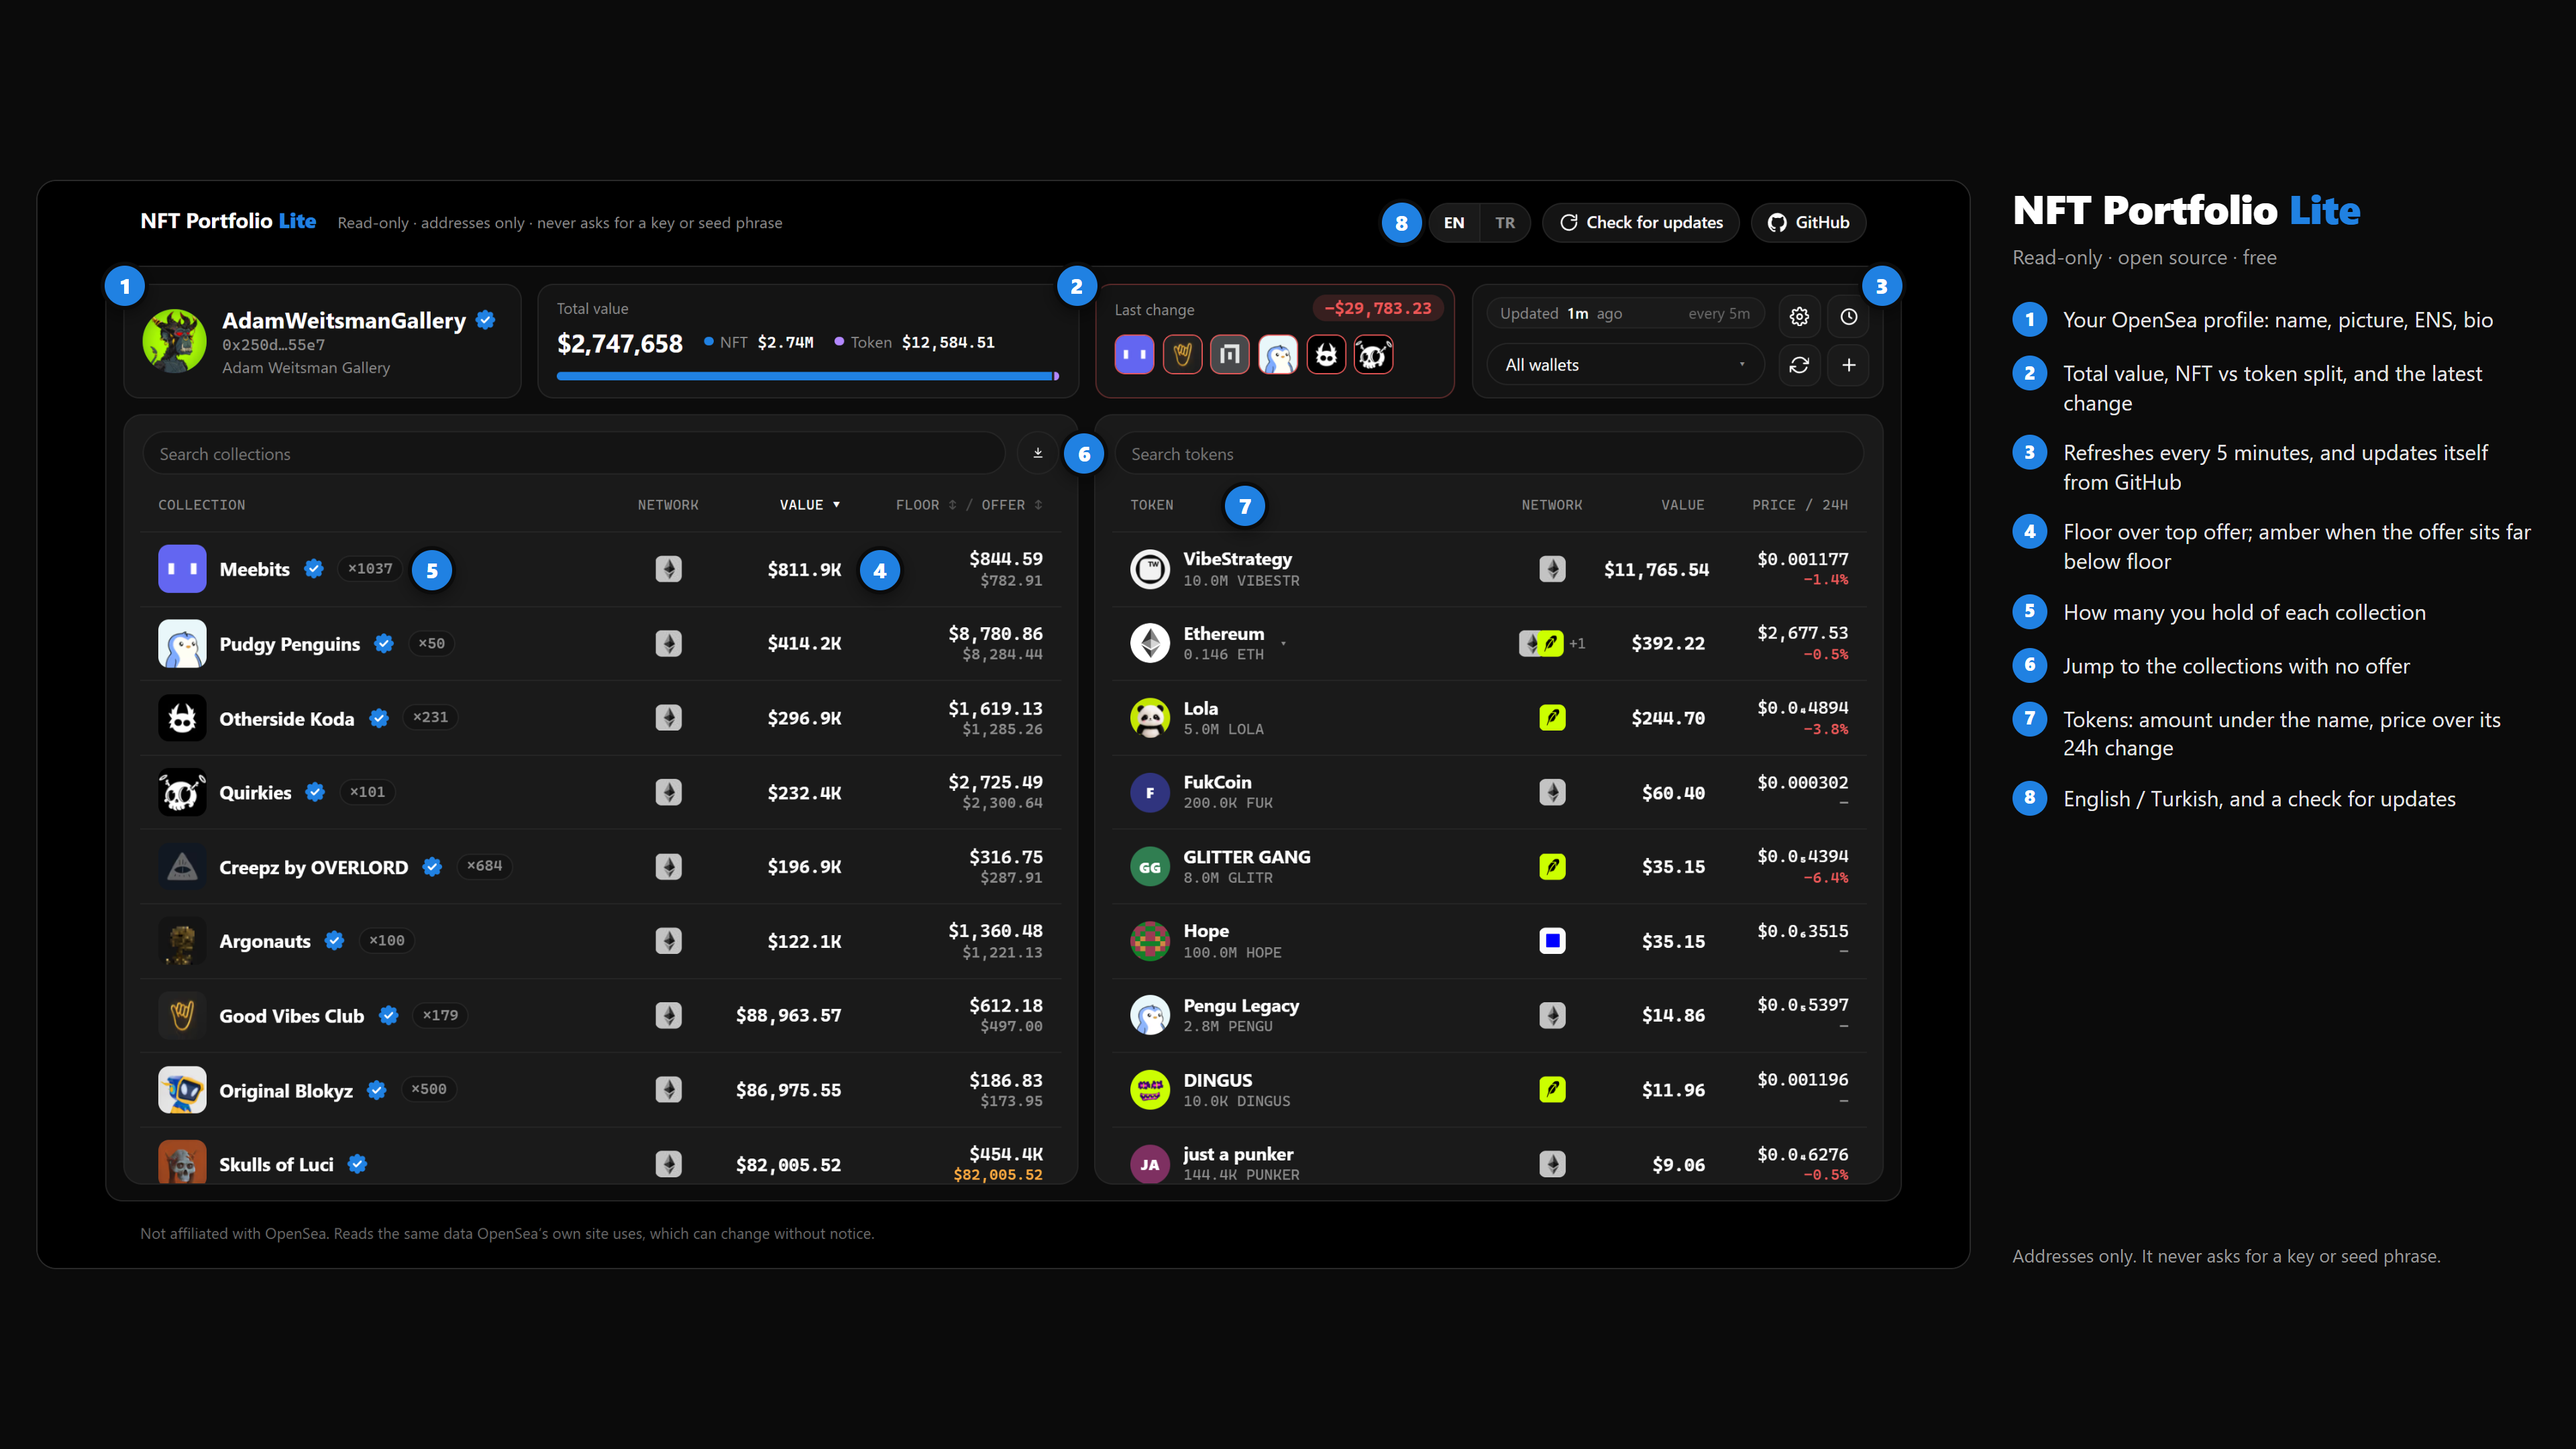
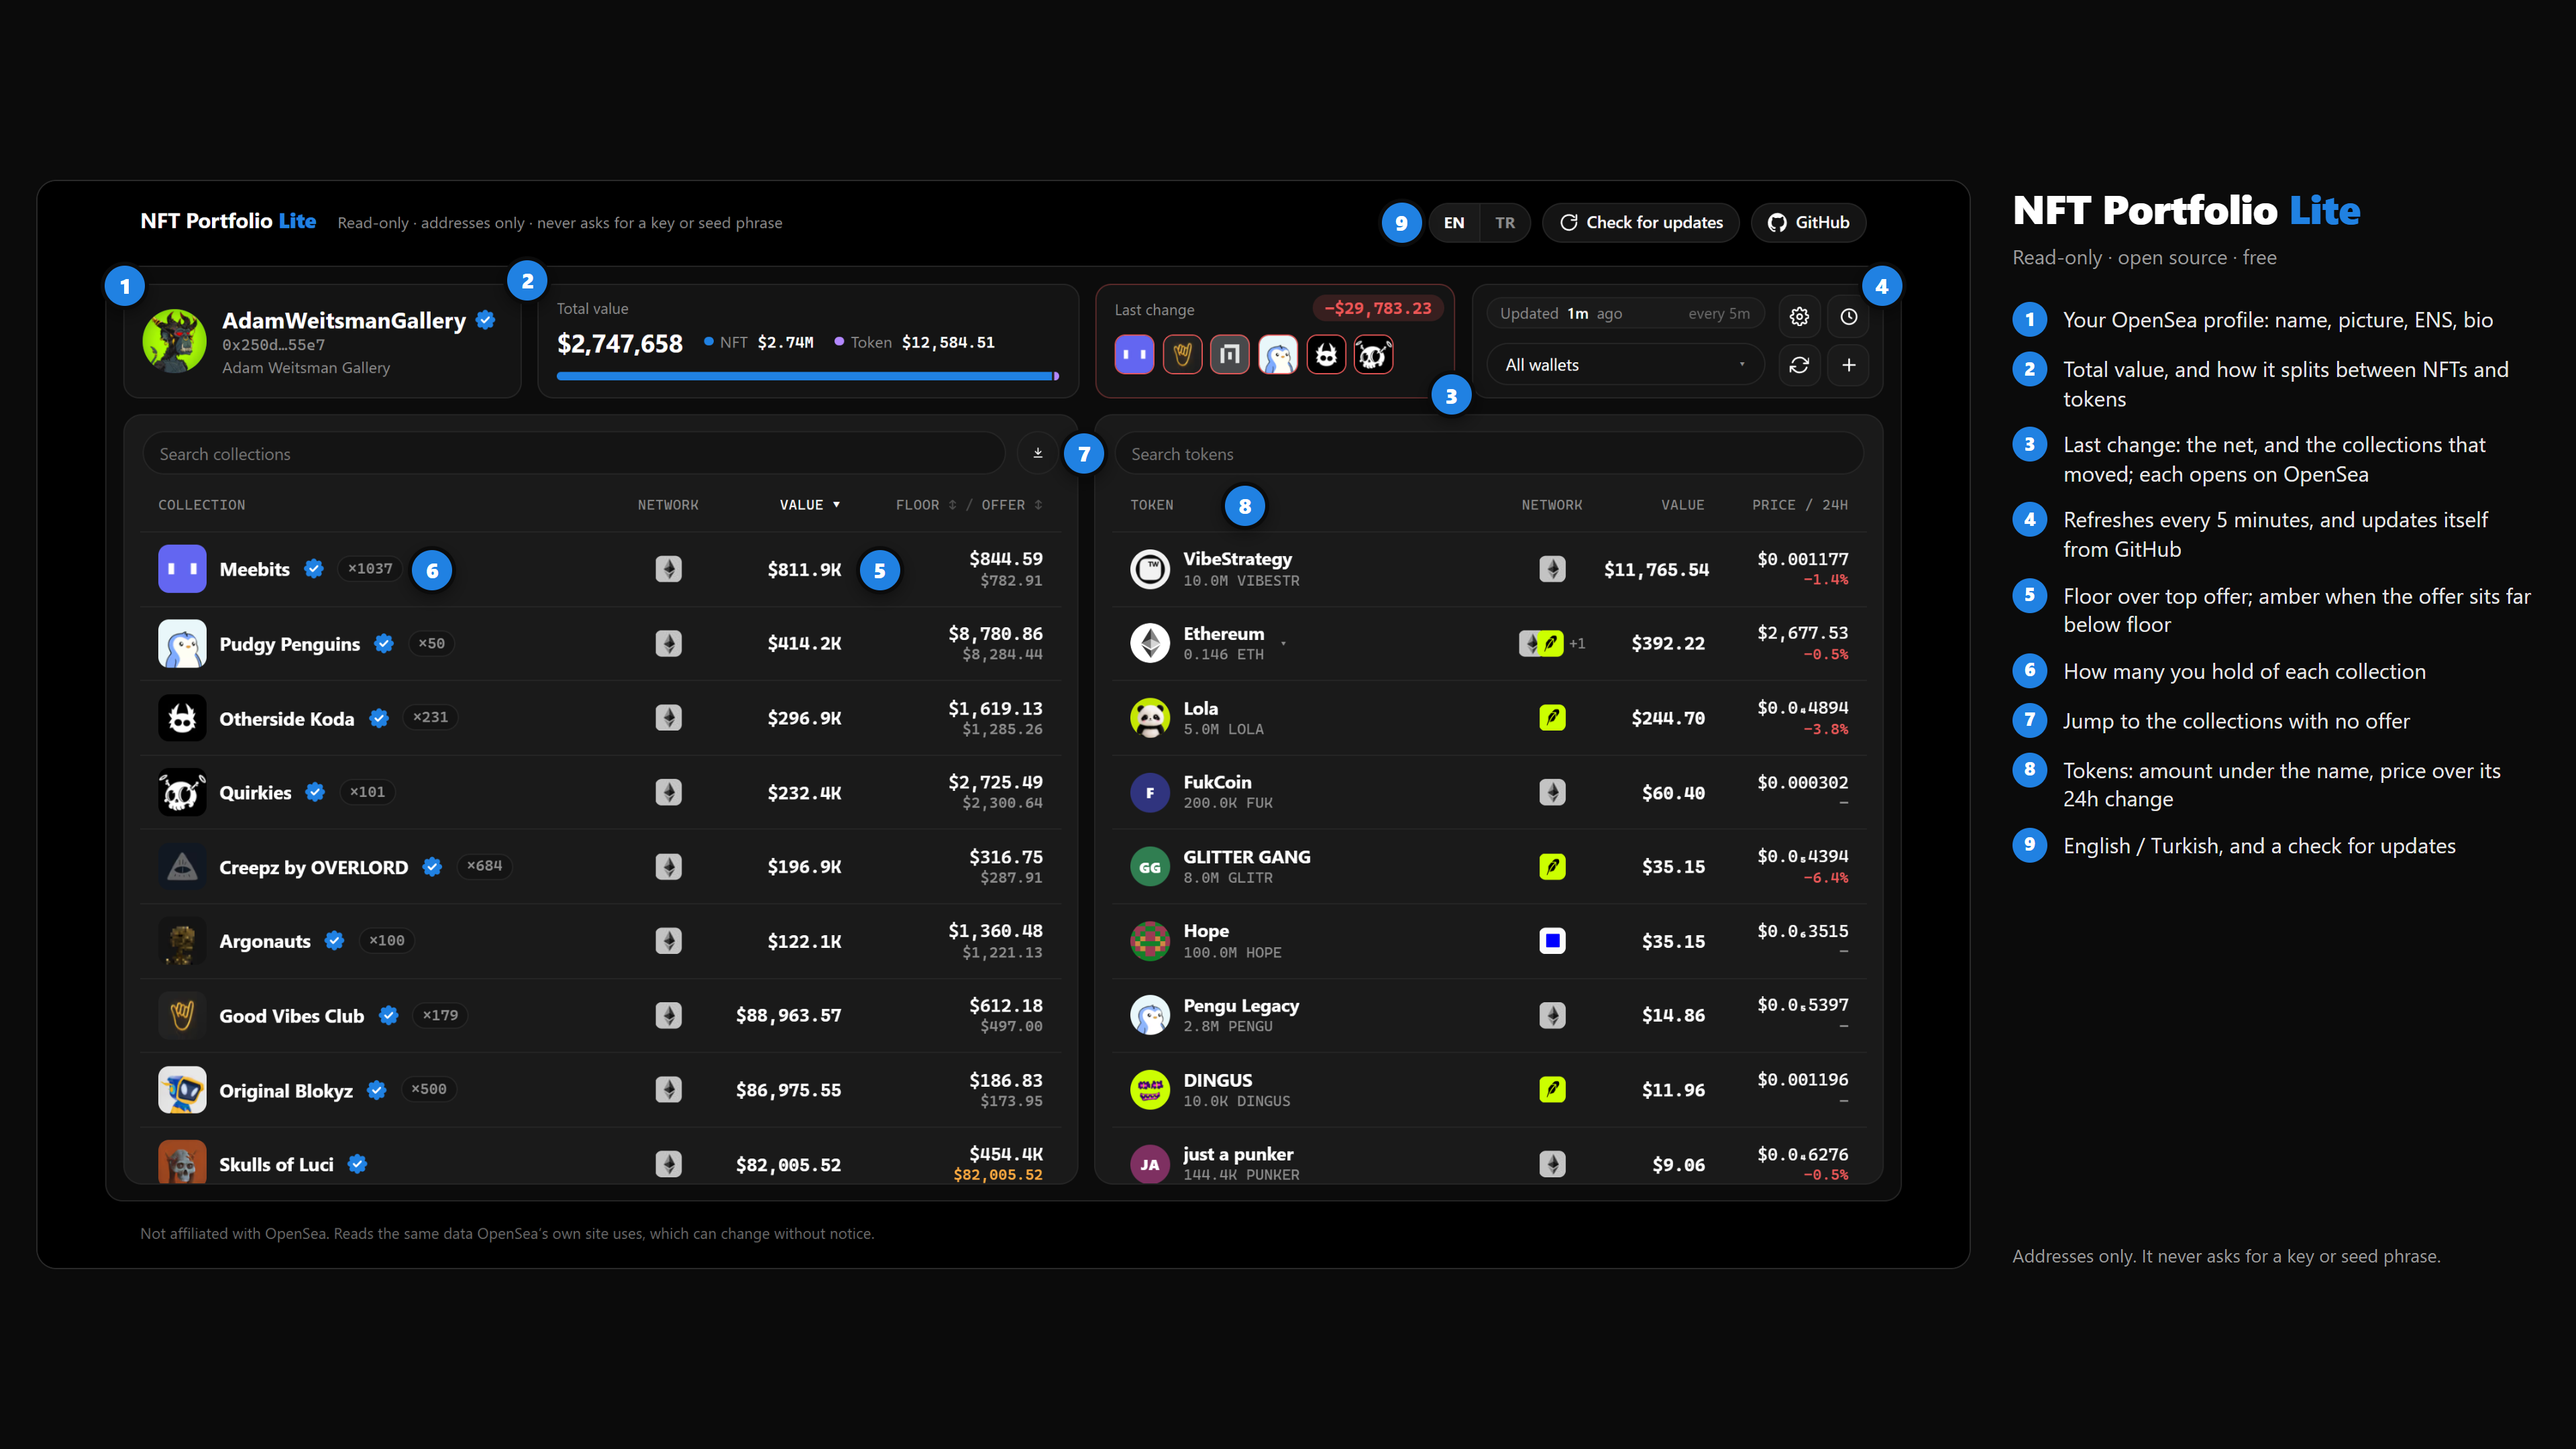
README: a full Turkish section, Last change marked on the annotated images
TR: README: Türkçe bölüm İngilizcesinin tam karşılığı oldu; açıklamalı görsellerde Son değişim kartı ayrıca işaretlendi.

diff --git a/README.md b/README.md
@@ -6,7 +6,7 @@ A light, fast, **read-only** view of your OpenSea portfolio — every NFT and to
 
 OpenSea's own portfolio page ships megabytes of app code, a heatmap and animations to show you a list. On a large wallet it can all but freeze the browser. This reads the same numbers and draws them plainly:
 
-- **Your profile at the top** — your OpenSea name, picture, ENS and bio, then the total value with its NFT / token split and the latest change.
+- **Your profile at the top** — your OpenSea name, picture, ENS and bio, then the total value with its NFT / token split, and the latest change with the collections that moved.
 - **Collections table** — how many you hold, value (top offer), floor and top offer, sortable and searchable. Click a row to see the pieces you hold.
 - **Collections with no offer** are read after the rest and kept under their own heading, folded, so the value is ready in seconds even on a wallet of 10,000+ pieces.
 - **Tokens table** — amount, value, price and 24h change; a token held on several networks opens onto each network.
@@ -30,7 +30,7 @@ OpenSea's own portfolio page ships megabytes of app code, a heatmap and animatio
 
 The link Codespaces gives you is **private**: only you, signed in to your GitHub account, can open it. Keep it that way — don't make the port public.
 
-Codespaces is free for personal GitHub accounts up to 60 hours a month, far more than this needs. A codespace goes to sleep by itself after 30 minutes without terminal activity, and the page then says so and keeps the last figures; open the codespace again and it carries on. To stop it yourself: **Code** → **Codespaces** → **⋯** → **Stop**.
+Codespaces is free for personal GitHub accounts up to 60 hours a month, far more than this needs. A codespace goes to sleep by itself after 30 minutes without terminal activity; the page then says so, keeps the last figures and offers a **Wake it up** button, and the codespace carries on where it left off. To stop it yourself: **Code** → **Codespaces** → **⋯** → **Stop**.
 
 ## Or run it on your own computer
 
@@ -57,6 +57,8 @@ Then open http://localhost:4180.
 ![Choosing wallets](docs/screenshots/wallets.png)
 
 **Staying up to date.** Every start pulls the latest version. When a new one comes out while the app is open, an *Update available* note appears at the top: click it to see what changed, then **Update now** — the app updates, restarts and the page reloads in a few seconds. Left unattended, it applies the update by itself. **Check for updates** asks straight away and shows the update history. Your wallets and history are always kept.
+
+**Change animations.** When a collection's value changes, the amount rises over its row and fades. They can be switched off under ⚙ settings.
 
 ![An update waiting](docs/screenshots/update.png)
 
@@ -98,16 +100,76 @@ If this saves you time, there is a support mint — *link coming soon*. It is a 
 
 ---
 
-## Türkçe hızlı başlangıç
+## Türkçe
+
+OpenSea portfolyonun hafif, hızlı ve **sadece okuyan** bir görünümü: tüm cüzdanlarındaki her NFT ve token, iki tabloda.
 
 ![NFT Portfolio Lite, Türkçe](docs/screenshots/portfolio-tr.png)
 
+OpenSea'nin kendi portfolyo sayfası bir listeyi göstermek için megabaytlarca kod, ısı haritası ve animasyon yükler; büyük bir cüzdanda tarayıcıyı neredeyse dondurur. Bu uygulama aynı rakamları okur ve sade bir şekilde çizer:
+
+- **Üstte profilin**: OpenSea adın, resmin, ENS'in ve biyografin; yanında toplam değer, NFT / token payı ve son değişim.
+- **Koleksiyon tablosu**: kaç tane tuttuğun, değer (en yüksek teklif), floor ve teklif; sıralanır ve aranır. Bir satıra tıklayınca tuttuğun parçalar açılır.
+- **Teklifi olmayan koleksiyonlar** en son okunur ve kendi başlıkları altında kapalı durur; böylece 10.000+ parçalık bir cüzdanda bile değer saniyeler içinde hazır olur.
+- **Token tablosu**: miktar, değer, fiyat ve 24 saatlik değişim; birkaç ağda tutulan bir token her ağa ayrı açılır.
+- **Fiyat geçmişi**: bakiyeni neyin ne zaman oynattığı; okuma, saat, 6 saat, 12 saat, gün ya da kendi seçtiğin aralıkla. Bir haftası saklanır.
+- **Elle eklenen NFT'ler**: OpenSea'nin hiçbir cüzdanında göstermediği parçalar için, örneğin stake edilmiş olanlar.
+- **Türkçe ve İngilizce**; GitHub'dan **kendini günceller**.
+
+> **Tek ihtiyacı cüzdan ADRESİN.** Bu uygulama asla private key ya da seed phrase istemez ve hiçbir şeyi hareket ettiremez. Buna benzeyen bir şey key isterse o bu uygulama değildir; sadece bu repoyu kullan.
+
+![Her parça ne işe yarar](docs/screenshots/annotated-tr.png)
+
+### Tarayıcıda başlat (GitHub Codespaces, kurulum yok)
+
 1. Bu sayfada **Code** → **Codespaces** → **Create codespace on main**'e tıkla.
 2. Biraz bekle: uygulama kendini günceller, kendiliğinden başlar ve sayfası yeni sekmede açılır. (Açılmazsa **Ports** sekmesinde 4180'in yanındaki küreye tıkla ya da terminale `npm start` yaz.)
-3. Cüzdan **adresini** (0x…) yapıştır, kaydet. Sağ üstteki **TR** ile dili Türkçe yapabilirsin.
+3. Cüzdan **adreslerini** (0x…) yapıştır, istersen kısa bir ad ver ve kaydet. Sağ üstteki **TR** ile dili Türkçe yapabilirsin.
 
-**Güncelleme:** Uygulama açıkken yeni sürüm çıkarsa üstte *Güncelleme var* notu belirir. Tıklayıp neyin değiştiğine bak, **Şimdi güncelle**'ye bas; birkaç saniyede güncellenir ve sayfa yenilenir. Kimse bakmıyorsa kendiliğinden günceller. Cüzdanların ve geçmişin korunur.
+Codespaces'in verdiği bağlantı **özeldir**: onu sadece GitHub hesabına giriş yapmış olan sen açabilirsin. Öyle kalsın; portu herkese açık yapma.
 
-**Codespace uyuyunca:** 30 dakika terminalde hareket olmazsa codespace kendiliğinden durur; aylık 60 saatinden yemesin diye bu iyidir. Sayfa bunu söyler ve son rakamları gösterir, codespace'i yeniden açınca kaldığı yerden devam eder.
+Codespaces kişisel GitHub hesaplarında ayda 60 saate kadar ücretsizdir; bu uygulamanın ihtiyacından çok fazla. Terminalde 30 dakika hareket olmazsa codespace kendiliğinden uyur; aylık süreni yemesin diye bu iyidir. Sayfa bunu söyler, son rakamları gösterir ve bir **Uyandır** düğmesi sunar; codespace yeniden açılınca kaldığı yerden devam eder. Kendin durdurmak için: **Code** → **Codespaces** → **⋯** → **Stop**.
+
+### Ya da kendi bilgisayarında çalıştır
+
+[Node.js](https://nodejs.org) 18 ya da daha yenisi gerekir, başka bir şey gerekmez.
+
+```
+git clone https://github.com/ekremkozz/NFT-Portfolio.git
+cd NFT-Portfolio
+npm start
+```
+
+Sonra http://localhost:4180 adresini aç.
+
+### Kullanım
+
+**Tuttuğun parçalar.** Bir koleksiyonun satırına tıkla: parçaları hemen altında açılır; arama, cüzdana göre süzme ve token numarasına göre sıralama vardır.
+
+**Birden çok cüzdan.** Hepsini ⚙ ayarlardan ekle; portfolyo hepsini toplar. **Tüm cüzdanlar** menüsü tabloları, toplamları ve geçmişi işaretlediğin cüzdanlara daraltır.
+
+**Güncel kalmak.** Her açılışta son sürümü çeker. Uygulama açıkken yeni sürüm çıkarsa üstte *Güncelleme var* notu belirir: tıklayıp neyin değiştiğine bak, **Şimdi güncelle**'ye bas; uygulama birkaç saniyede güncellenir, yeniden başlar ve sayfa yenilenir. Kimse bakmıyorsa güncellemeyi kendisi uygular. **Güncellemeleri kontrol et** hemen sorar ve güncelleme geçmişini gösterir. Cüzdanların ve geçmişin her zaman korunur.
+
+**Değişim animasyonları.** Bir koleksiyonun değeri değişince tutar satırın üstünde yükselip kaybolur. ⚙ ayarlardan kapatılabilir.
+
+### Elle NFT eklemek (isteğe bağlı)
+
+Stake edilmiş NFT'ler staking kontratında durur, bu yüzden OpenSea onları hiçbir cüzdanında göstermez. **+**'ya tıkla, parçanın OpenSea bağlantısını (ya da koleksiyon bağlantısını ve kaç tane tuttuğunu) yapıştır; diğerleriyle birlikte sayılır ve *Manual* olarak işaretlenir.
+
+Sadece bu özellik bir **OpenSea API anahtarı** ister ([buradan al](https://docs.opensea.io/reference/api-keys)); geri kalan her şey onsuz çalışır. Codespace'te en güvenli yeri bir **Codespaces secret**'tır; GitHub onu şifreler ve koda asla yazılmaz:
+
+1. GitHub → **Settings** → **Codespaces** → **New secret**
+2. Ad: `OPENSEA_API_KEY`, değer: anahtarın, repo: bu repo.
+3. Codespace'i yeniden başlat.
+
+İstersen ⚙ ayarlara da yapıştırabilirsin; o zaman sadece o makinedeki `data/` klasöründe saklanır ve sayfaya bir daha gönderilmez. OpenSea API anahtarı sadece veri *okuyabilir*, cüzdanlarına dokunamaz.
+
+### Verilerin nerede
+
+Uygulamanın sakladığı her şey (cüzdan listen, elle eklenen NFT'ler, bir haftalık fiyat değişimleri) çalıştığı yerdeki `data/` klasöründedir. Git onu yok sayar; adreslerinin herkese açık verileri için OpenSea'ye giden istekler dışında o makineden hiç çıkmaz.
+
+### Önemli
+
+**OpenSea ile bağlantısı yoktur.** OpenSea'nin kendi sitesinin okuduğu verileri okur. Bunlar yayımlanmış bir API değildir: OpenSea onları her an değiştirebilir, değiştirdiğinde uygulama güncellenene kadar tablolar boş görünebilir. Değerler OpenSea'nin rakamlarıdır (en yüksek teklifler ve floor'lar), yatırım tavsiyesi değildir.
 
 Bu uygulama **asla** private key ya da seed phrase istemez. İsteyen bir şey görürsen o bu uygulama değildir.
